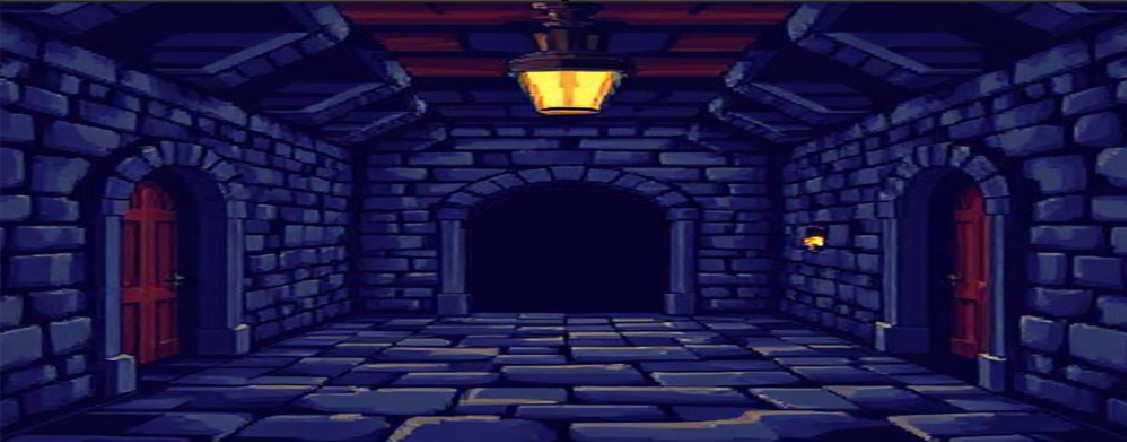
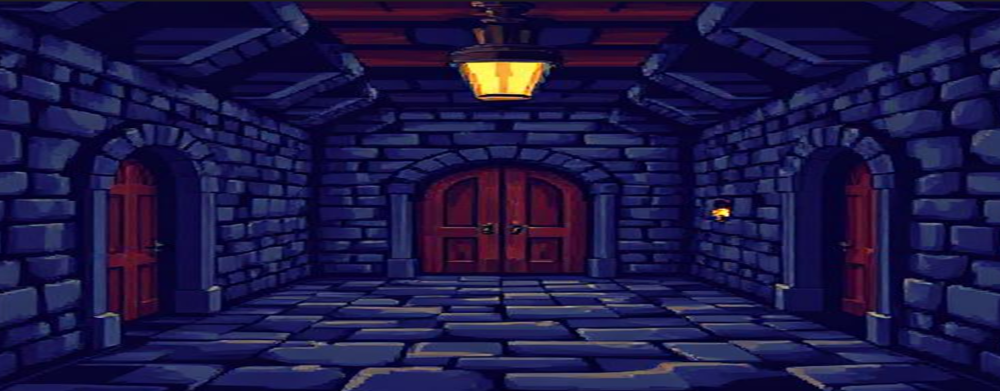
Guest room with attic naar main

diff --git a/src/api/src/game-implementation/rooms/GuestRoomAttic.ts b/src/api/src/game-implementation/rooms/GuestRoomAttic.ts
@@ -1,8 +1,17 @@
 import { ActionResult } from "../../game-base/actionResults/ActionResult";
 import { TextActionResult } from "../../game-base/actionResults/TextActionResult";
 import { Room } from "../../game-base/gameObjects/Room";
+import { gameService } from "../../global";
+import { LobbyRoom } from "./LobbyRoom";
+import { Action } from "../../game-base/actions/Action";
+import { Simple, SimpleAction } from "../../game-base/actions/SimpleAction";
+import { GameObject } from "../../game-base/gameObjects/GameObject";
+import { ServeerplaatItem } from "../items/ServeerplaatItem";
+import { ExamineAction } from "../../game-base/actions/ExamineAction";
+import { AtticAccessItem } from "../items/AtticAccessItem";
+import { BovenHalRoom } from "./BovenHalRoom";
 
-export class GuestRoomAttic extends Room {
+export class GuestRoomAttic extends Room implements Simple {
     public static readonly Alias: string = "GuestRoomAttic";
 
     public constructor() {
@@ -15,7 +24,50 @@ export class GuestRoomAttic extends Room {
 
     public examine(): ActionResult | undefined {
         return new TextActionResult([
-            "Hallo, dis is een test",
+            "This is a Guestroom, but what's that on the celling?",
         ]);
+    }
+
+    public actions(): Action[] {
+        return [
+            new SimpleAction("lobby", "Lobby"),
+            new SimpleAction("bovenhal", "Bovenhal"),
+            new ExamineAction(),
+
+        ];
+    }
+
+    public objects(): GameObject[] {
+        return [
+            new ServeerplaatItem(),
+            new AtticAccessItem(),
+        ];
+    }
+
+    public images(): string[] {
+        return ["GuestRoomWithItem"];
+    }
+
+    public simple(alias: string): ActionResult | undefined {
+        if (alias === "lobby") {
+            // TODO: plaats hier de class naam van de kamer waar je heen wilt gaan nadat je op de knop hebt gedrukt.
+            const room: Room = new LobbyRoom();
+
+            // Set the current room to the startup room
+            gameService.getPlayerSession().currentRoom = room.alias;
+
+            return room.examine();
+        }
+
+        if (alias === "bovenhal") {
+            // TODO: plaats hier de class naam van de kamer waar je heen wilt gaan nadat je op de knop hebt gedrukt.
+            const room: Room = new BovenHalRoom();
+
+            // Set the current room to the startup room
+            gameService.getPlayerSession().currentRoom = room.alias;
+
+            return room.examine();
+        }
+        return undefined;
     }
 }

diff --git a/src/api/src/game-implementation/rooms/PathToTheCastleRoom.ts b/src/api/src/game-implementation/rooms/PathToTheCastleRoom.ts
@@ -8,17 +8,10 @@ import { gameService } from "../../global";
 import { SearchAction } from "../actions/SearchAction";
 import { WalkAction } from "../actions/WalkAction";
 import { KeyItem } from "../items/KeyItem";
-import { Stone1Item } from "../items/Stone1Item";
-import { Stone2Item } from "../items/Stone2Item";
-import { Stone3Item } from "../items/Stone3Item";
-import { Stone4Item } from "../items/Stone4Item";
 import { StonesItem } from "../items/StonesItem";
 import { PlayerSession } from "../types";
 import { CastleDoorEnteranceRoom } from "./CastleDoorEnteranceRoom";
 
-/**
- * Represents the Path to the Castle room in the game.
- */
 export class PathToTheCastleRoom extends Room {
     public static readonly Alias: string = "PathToTheCastle";
 
@@ -73,10 +66,6 @@ export class PathToTheCastleRoom extends Room {
     public objects(): GameObject[] {
         return [
             new StonesItem(),
-            new Stone1Item(),
-            new Stone2Item(),
-            new Stone3Item(),
-            new Stone4Item(),
             new KeyItem(),
             new CastleDoorEnteranceRoom(),
         ];

diff --git a/src/api/src/game-implementation/rooms/StartupRoom.ts b/src/api/src/game-implementation/rooms/StartupRoom.ts
@@ -4,7 +4,8 @@ import { Action } from "../../game-base/actions/Action";
 import { Simple, SimpleAction } from "../../game-base/actions/SimpleAction";
 import { Room } from "../../game-base/gameObjects/Room";
 import { gameService } from "../../global";
-import { LobbyRoom } from "./LobbyRoom";
+// import { LobbyRoom } from "./LobbyRoom";
+import { GuestRoomAttic } from "./GuestRoomAttic";
 
 /**
  * Implemention of the startup room
@@ -56,7 +57,7 @@ export class StartupRoom extends Room implements Simple {
     public simple(alias: string): ActionResult | undefined {
         if (alias === "start-game-from-image") {
             // TODO: plaats hier de class naam van de kamer waar je heen wilt gaan nadat je op start hebt gedrukt.
-            const room: Room = new LobbyRoom();
+            const room: Room = new GuestRoomAttic();
 
             // Set the current room to the startup room
             gameService.getPlayerSession().currentRoom = room.alias;

diff --git a/src/api/src/game-implementation/services/GameService.ts b/src/api/src/game-implementation/services/GameService.ts
@@ -5,7 +5,6 @@ import { PlayerSession } from "../types";
 import { LobbyRoom } from "../rooms/LobbyRoom";
 import { KnuffelbeerItem } from "../items/KnuffelbeerItem";
 import { WalkAction } from "../actions/WalkAction";
-import { BovenHalRoom } from "../rooms/BovenHalRoom";
 import { ButlerCharacter } from "../characters/ButlerCharacter";
 import { PathToTheCastleRoom } from "../rooms/PathToTheCastleRoom";
 import { StonesItem } from "../items/StonesItem";
@@ -19,6 +18,7 @@ import { CastleDoorEnteranceRoom } from "../rooms/CastleDoorEnteranceRoom";
 import { CastleEnteranceDoorItem } from "../items/CastleEnteranceDoorItem";
 import { UseItemAction } from "../actions/UseItemAction";
 import { EnterCastleAction } from "../actions/EnterCastleAction";
+import { BovenHalRoom } from "../rooms/BovenHalRoom";
 
 /**
  * Implementation of the game service used to operate the game engine

diff --git a/src/api/src/game-implementation/items/AtticAccessItem.ts b/src/api/src/game-implementation/items/AtticAccessItem.ts
@@ -1,0 +1,20 @@
+import { ActionResult } from "../../game-base/actionResults/ActionResult";
+import { TextActionResult } from "../../game-base/actionResults/TextActionResult";
+import { Examine } from "../../game-base/actions/ExamineAction";
+import { Item } from "../../game-base/gameObjects/Item";
+
+export class AtticAccessItem extends Item implements Examine {
+    public static readonly Alias: string = "AtticAccessItem";
+
+    public constructor() {
+        super(AtticAccessItem.Alias);
+    }
+
+    public name(): string {
+        return "Attic Access";
+    }
+
+    public examine(): ActionResult | undefined {
+        return new TextActionResult(["I need an object to open the hatch, I just don't know what"]);
+    }
+}

diff --git a/src/api/src/game-implementation/items/ServeerplaatItem.ts b/src/api/src/game-implementation/items/ServeerplaatItem.ts
@@ -1,0 +1,20 @@
+import { ActionResult } from "../../game-base/actionResults/ActionResult";
+import { TextActionResult } from "../../game-base/actionResults/TextActionResult";
+import { Examine } from "../../game-base/actions/ExamineAction";
+import { Item } from "../../game-base/gameObjects/Item";
+
+export class ServeerplaatItem extends Item implements Examine {
+    public static readonly Alias: string = "Serveerplaat";
+
+    public constructor() {
+        super(ServeerplaatItem.Alias);
+    }
+
+    public name(): string {
+        return "Serving platter";
+    }
+
+    public examine(): ActionResult | undefined {
+        return new TextActionResult(["What is this serving platter doing on the floor ??"]);
+    }
+}

diff --git a/src/api/src/game-implementation/rooms/OpenRoom.ts b/src/api/src/game-implementation/rooms/OpenRoom.ts
@@ -1,0 +1,25 @@
+import { ActionResult } from "../../game-base/actionResults/ActionResult";
+import { TextActionResult } from "../../game-base/actionResults/TextActionResult";
+import { Room } from "../../game-base/gameObjects/Room";
+
+export class OpenkamerRoom extends Room {
+    public static readonly Alias: string = "openkamer";
+
+    public constructor() {
+        super(OpenkamerRoom.Alias);
+    }
+
+    public name(): string {
+        return "Openkamer";
+    }
+
+    public images(): string[] {
+        return ["lobby"];
+    }
+
+    public examine(): ActionResult | undefined {
+        return new TextActionResult([
+            "What a big open room!",
+        ]);
+    }
+}

diff --git a/src/api/src/game-implementation/rooms/BovenHalRoom.ts b/src/api/src/game-implementation/rooms/BovenHalRoom.ts
@@ -82,6 +82,7 @@ export class BovenHalRoom extends Room implements Simple, Walk {
         catch (error) {
             console.error("🔥 Fout bij het wisselen van kamer:", error);
             return new TextActionResult(["❌ Er ging iets mis bij het lopen!"]);
+            // test
         }
     }
 }

diff --git a/src/api/src/game-implementation/items/Stone1Item.ts b/src/api/src/game-implementation/items/Stone1Item.ts
@@ -42,6 +42,7 @@ export class Stone1Item extends Item implements Examine, Search {
         else {
             gameService.getPlayerSession().lookedUnderStone1 = true;
             return new TextActionResult(["You look under stone 1 and find nothing."]);
+            // test
         }
     }
 }

diff --git a/src/api/src/game-implementation/items/Stone2Item.ts b/src/api/src/game-implementation/items/Stone2Item.ts
@@ -42,6 +42,7 @@ export class Stone2Item extends Item implements Examine, Search {
         else {
             gameService.getPlayerSession().lookedUnderStone2 = true;
             return new TextActionResult(["You look under stone 2 and find nothing."]);
+            // test
         }
     }
 }

diff --git a/src/api/src/game-implementation/items/Stone4Item.ts b/src/api/src/game-implementation/items/Stone4Item.ts
@@ -42,6 +42,7 @@ export class Stone4Item extends Item implements Examine, Search {
         else {
             gameService.getPlayerSession().lookedUnderStone4 = true;
             return new TextActionResult(["You look under stone 4 and find nothing."]);
+            // test
         }
     }
 }

diff --git a/src/api/src/game-implementation/actions/WalkAction.ts b/src/api/src/game-implementation/actions/WalkAction.ts
@@ -4,7 +4,6 @@ import { Action } from "../../game-base/actions/Action";
 import { GameObject } from "../../game-base/gameObjects/GameObject";
 import { Room } from "../../game-base/gameObjects/Room";
 
-@Interface
 export abstract class Walk {
     /**
      * Execute the Walk action
